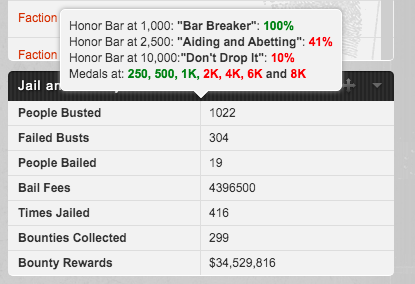
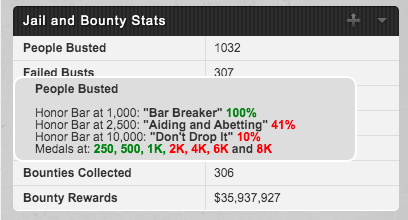
Change to custom tool tips

diff --git a/JailStats/Torn Jail Stats.user.js b/JailStats/Torn Jail Stats.user.js
@@ -7,6 +7,7 @@
 // @include      https://www.torn.com/index.php
 // @updateURL    https://github.com/edlau2/Tampermonkey/blob/master/JailStats/Torn%20Jail%20Stats.user.js
 // @require      http://code.jquery.com/jquery-3.4.1.min.js
+// @require      http://code.jquery.com/ui/1.12.1/jquery-ui.js
 // @connect      tornstats.com
 // @connect      api.torn.com
 // @grant        GM_addStyle
@@ -261,16 +262,12 @@
             return;
         }
 
-        console.log('Torn Jail Stats, personalStatsQueryCB: id = ' + valSpan + ' busted = ' + stats.peoplebusted +
-                    ' failed = ' + stats.failedbusts + ' jailed = ' + stats.jailed + ' bailed = ' + stats.peoplebought +
-                   ' Bail Fees = $' + numberWithCommas(stats.peopleboughtspent));
-
         // If this fails, may not be in data (never done). Not an error.
         if (!validPointer(stats[name])) {
             return "0";
         }
 
-        if (!name.localeCompare('totalbountyreward')) {
+        if (!name.localeCompare('totalbountyreward') || !name.localeCompare('peopleboughtspent')) {
             valSpan.innerText = '$' + numberWithCommas(stats[name]);
         } else {
             valSpan.innerText = stats[name];
@@ -286,6 +283,20 @@
     //////////////////////////////////////////////////////////////////////
 
     function addToolTips() {
+        GM_addStyle(".tooltip2 {" +
+                  "radius: 4px !important;" +
+                  "background-color: #ddd !important;" +
+                  "padding: 5px 20px;" +
+                  "border: 2px solid white;" +
+                  "border-radius: 10px;" +
+                  "width: 300px;" +
+                  "margin: 50px;" +
+                  "text-align: left;" +
+                  "font: bold 14px ;" +
+                  "font-stretch: condensed;" +
+                  "text-decoration: none;" +
+                  "}");
+
         var bustsLi = document.getElementById('xedx-busts');
         var bailsLi = document.getElementById('xedx-bails');
         var bountiesLi = document.getElementById('xedx-bounties');
@@ -293,14 +304,26 @@
 
         if (validPointer(bustsLi) && validPointer(bailsLi) &&
             validPointer(bountiesLi) && validPointer(feesLi)) {
-            buildBustsToolTip();
-            buildBailsToolTip();
-            buildBountiesToolTip();
-            buildFeesToolTip();
+            buildBustsToolTip('People Busted');
+            buildBailsToolTip('People Bailed');
+            buildBountiesToolTip('Bounties Collected');
+            buildFeesToolTip('Bounty Rewards');
         }
     }
 
-    function buildFeesToolTip() {
+    function displayToolTip(div, text) {
+        $(document).ready(function() {
+            $(div).attr("title", "original");
+            $(div).tooltip({
+                content: text,
+                classes: {
+                    "ui-tooltip": "tooltip2"
+                }
+            });
+        })
+    }
+
+    function buildFeesToolTip(title) {
         var feesLi = document.getElementById('xedx-fees');
         var feesText = document.getElementById('xedx-val-span-totalbountyreward').innerText;
         var tmp = feesText.replace('$', '');
@@ -312,13 +335,14 @@
             pctText = '<B><font color=\'red\'>' + Math.round(pctText) + '%</font></B>';
         }
 
-        var text = 'Honor Bar at $10,000,000: <B>\"Dead or Alive\"</B>: ' + pctText;
+        var text = '<B>' + title + CRLF + CRLF + '</B>Honor Bar at $10,000,000: <B>\"Dead or Alive\"</B> ' + pctText;
 
-        $(feesLi).attr("data-html", "true");
-        $(feesLi).attr("title", text);
+        displayToolTip(feesLi, text);
+        //$(feesLi).attr("data-html", "true");
+        //$(feesLi).attr("title", text);
     }
 
-    function buildBountiesToolTip() {
+    function buildBountiesToolTip(title) {
         var bountiesLi = document.getElementById('xedx-bounties');
         var bountiesText = document.getElementById('xedx-val-span-bountiescollected').innerText;
         var pctText = bountiesText/250 * 100;
@@ -328,17 +352,18 @@
             pctText = '<B><font color=\'red\'>' + Math.round(pctText) + '%</font></B>';
         }
 
-        var text = 'Honor Bar at 250: <B>\"Bounty Hunter\"</B>: ' + pctText;
+        var text = '<B>' + title + CRLF + CRLF + '</B>Honor Bar at 250: <B>\"Bounty Hunter\"</B> ' + pctText;
         var text2 = 'Medals at: <B>' +
         ((bountiesText > 25) ? '<font color=green>25, </font>' : '<font color=red>25, </font>') +
             ((bountiesText > 100) ? '<font color=green>100, </font>' : '<font color=red>100, </font>') +
             ((bountiesText > 500) ? '<font color=green>500</font></B>' : '<font color=red>500</font></B>');
 
-        $(bountiesLi).attr("data-html", "true");
-        $(bountiesLi).attr("title", text + CRLF + text2);
+        displayToolTip(bountiesLi, text + CRLF + text2);
+        //$(bountiesLi).attr("data-html", "true");
+        //$(bountiesLi).attr("title", text + CRLF + text2);
     }
 
-    function buildBustsToolTip() {
+    function buildBustsToolTip(title) {
         var bustsLi = document.getElementById('xedx-busts');
         var bustsText = document.getElementById('xedx-val-span-peoplebusted').innerText;
         var pctText = bustsText/1000 * 100;
@@ -360,9 +385,9 @@
             pctText3 = '<B><font color=\'red\'>' + Math.round(pctText3) + '%</font></B>';
         }
 
-        var text = 'Honor Bar at 1,000: <B>\"Bar Breaker\"</B>: ' + pctText;
-        var text2 = 'Honor Bar at 2,500: <B>\"Aiding and Abetting\"</B>: ' + pctText2;
-        var text3 = 'Honor Bar at 10,000:<B>\"Don\'t Drop It\"</B>: ' + pctText3;
+        var text = '<B>' + title + CRLF + CRLF + '</B>Honor Bar at 1,000: <B>\"Bar Breaker\"</B> ' + pctText;
+        var text2 = 'Honor Bar at 2,500: <B>\"Aiding and Abetting\"</B> ' + pctText2;
+        var text3 = 'Honor Bar at 10,000: <B>\"Don\'t Drop It\"</B> ' + pctText3;
         var text4 = 'Medals at: <B>' +
             ((bustsText > 250) ? '<font color=green>250, </font>' : '<font color=red>250, </font>') +
             ((bustsText > 500) ? '<font color=green>500, </font>' : '<font color=red>500, </font>') +
@@ -373,11 +398,12 @@
             ((bustsText > 8000) ? '<font color=green>8K</font></B>' : '<font color=red>8K</font></B>');
             // 250, 500, 1K, 2K, 4K, 6K and 8K</B>';
 
-        $(bustsLi).attr("data-html", "true");
-        $(bustsLi).attr("title", text + CRLF + text2 + CRLF + text3 + CRLF + text4);
+        displayToolTip(bustsLi, text + CRLF + text2 + CRLF + text3 + CRLF + text4);
+        //$(bustsLi).attr("data-html", "true");
+        //$(bustsLi).attr("title", text + CRLF + text2 + CRLF + text3 + CRLF + text4);
     }
 
-    function buildBailsToolTip() {
+    function buildBailsToolTip(title) {
         var bailsLi = document.getElementById('xedx-bails');
         var bailsText = document.getElementById('xedx-val-span-peoplebought').innerText;
         var pctText = bailsText/500 * 100;
@@ -387,10 +413,11 @@
             pctText = '<B><font color=\'red\'>' + Math.round(pctText) + '%</font></B>';
         }
 
-        var text = 'Honor Bar at 500: <B>\"Freedom isn\'t Free\"</B>: ' + pctText;
+        var text = '<B>' + title + CRLF + CRLF + '</B>Honor Bar at 500: <B>\"Freedom isn\'t Free\"</B> ' + pctText;
 
-        $(bailsLi).attr("data-html", "true");
-        $(bailsLi).attr("title", text);
+        displayToolTip(bailsLi, text);
+        //$(bailsLi).attr("data-html", "true");
+        //$(bailsLi).attr("title", text);
     }
 
     //////////////////////////////////////////////////////////////////////
